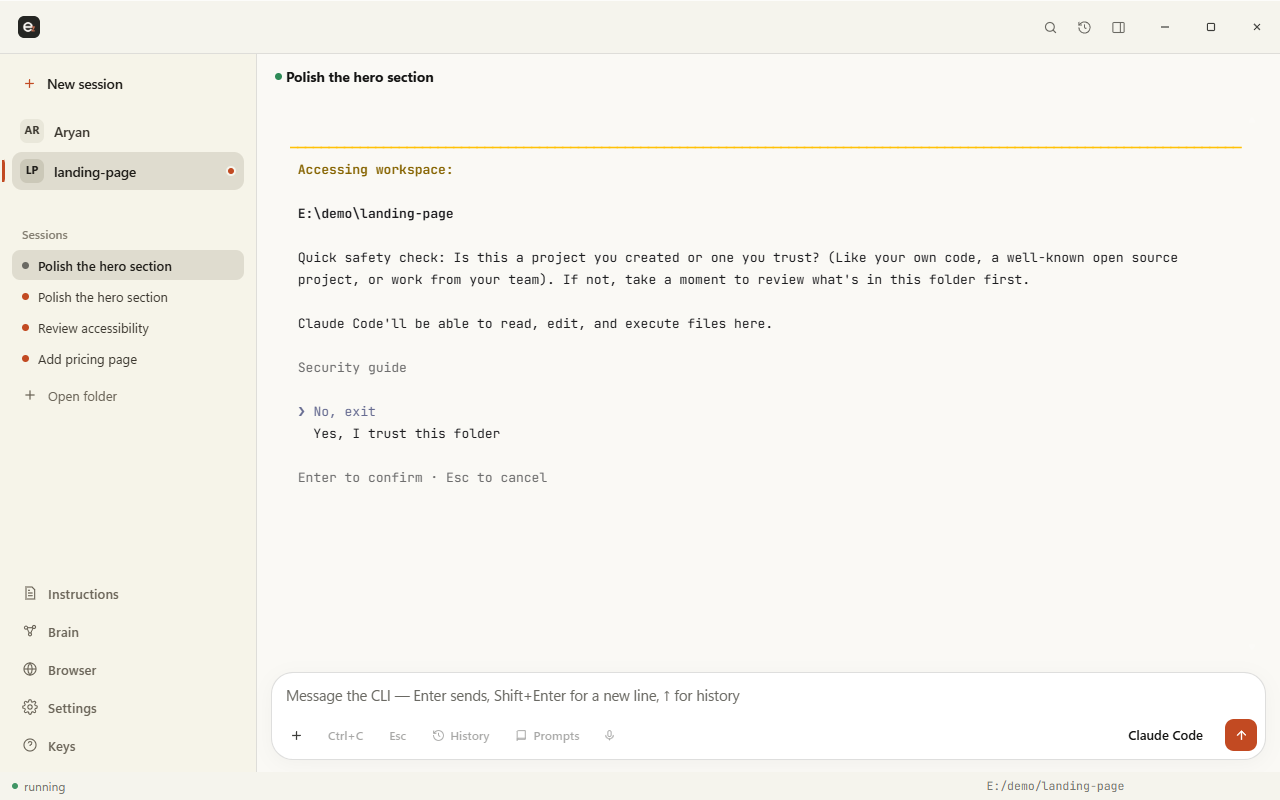
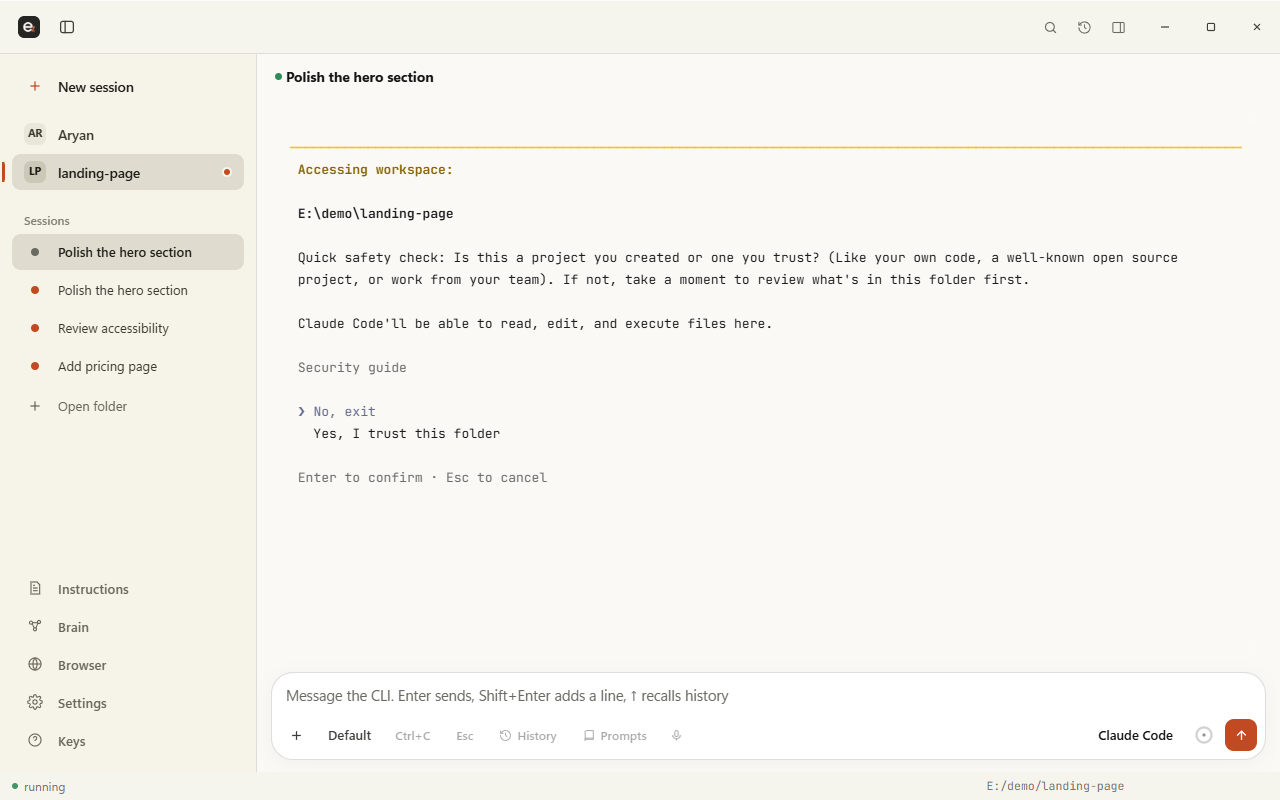
v4.5.0: README refresh with highlights and new screenshots, explorer and footer layout fixes

diff --git a/public/features/v4.css b/public/features/v4.css
@@ -293,3 +293,24 @@ html[data-layout='calm'] #ptyComposer .usage-ring:hover { background: color-mix(
 
 /* a limit near its cap in the status bar: a darker amber on light windows so it stays readable */
 :root[data-theme='light'] .live-usage-item.hot { color: color-mix(in srgb, var(--warn) 72%, #000); }
+
+/* narrow message boxes (a small window, or the explorer docked beside the session): the footer
+ * wraps onto a second line instead of running past the box. Container queries, because the box
+ * is narrow when the explorer takes space even in a wide window. */
+html[data-layout='calm'] #ptyComposer, html[data-layout='calm'] #homeComposer { container: composer / inline-size; }
+@container composer (max-width: 660px) {
+  .composer-row, .composer-row.runconfig { flex-wrap: wrap !important; row-gap: 4px; }
+  #homeAgent { margin-left: 0 !important; }
+  .composer-tools { margin-left: auto !important; }
+  #ptyComposer .composer-meta { margin-left: auto; }
+}
+
+/* the session header gives up its chips, then its secondary buttons, as the session column narrows
+ * (a small window, or the explorer docked beside it) so the actions never run under the explorer */
+html[data-layout='calm'] .session-head { container: shead / inline-size; }
+@container shead (max-width: 760px) {
+  .session-head > .head-chip, .session-head > .head-branch, .session-head > .head-agent { display: none !important; }
+}
+@container shead (max-width: 520px) {
+  .session-head #actExport, .session-head .open-in-primary { display: none !important; }
+}

diff --git a/public/app.js b/public/app.js
@@ -2264,8 +2264,24 @@ function setExplorerOpen(open, { quiet = false } = {}) {
   requestAnimationFrame(fitActive);
 }
 
+/** The explorer never takes more than the window can spare: the session keeps at least 320px,
+ *  so the explorer cannot cover the composer when the window is narrow or the sidebar is open. */
 function applyExplorerWidth() {
-  document.querySelector('.main').style.setProperty('--explorer-width', `${prefs.explorerWidth}px`);
+  const main = document.querySelector('.main');
+  const room = main.clientWidth - 320;
+  const width = Math.max(260, Math.min(prefs.explorerWidth, room));
+  main.style.setProperty('--explorer-width', `${Math.round(width)}px`);
+}
+window.addEventListener('resize', () => applyExplorerWidth());
+{
+  let last = 0;
+  new ResizeObserver(() => {
+    const w = document.querySelector('.main').clientWidth;
+    if (Math.abs(w - last) > 1) {
+      last = w;
+      applyExplorerWidth();
+    }
+  }).observe(document.querySelector('.main'));
 }
 
 function explorerRoot() {

diff --git a/README.md b/README.md
@@ -10,9 +10,10 @@
 
 ezCLI is not a harness. Each session spawns the real CLI in a real pseudo-terminal, so
 the agent's own text UI renders unchanged. Nothing is proxied, re-prompted, or rewritten.
-The window adds the parts a bare terminal lacks: tabs, an agent switcher, a file and diff
-browser with git actions, model, effort and mode flags you pick before launch, images and
-videos in the chat, and a compare mode that runs one prompt on several agents at once.
+The window adds the parts a bare terminal lacks: a sidebar of your projects and sessions, an
+agent switcher, a file and diff browser with git actions, model, effort and mode you pick
+before launch, images and videos in the chat, usage meters, and a compare mode that runs one
+prompt on several agents at once.
 
 ![The calm home screen: one message box, your sessions in the sidebar](docs/screenshot-launcher.png)
 
@@ -27,6 +28,40 @@ videos in the chat, and a compare mode that runs one prompt on several agents at
 ![Compare mode: one prompt sent to three agents](docs/screenshot-compare.png)
 
 ![Settings, with a section list on the left](docs/screenshot-settings.png)
+
+## Highlights
+
+**A window that feels like a desktop chat app**
+
+- **Sand and Sand Dark.** A flat, warm window modelled on the Claude desktop app: a tinted
+  sidebar, one continuous content area, a serif greeting with the ezCLI mark, and a white
+  message box. Seven other themes are one click away in Settings.
+- **A sidebar that does the switching.** New session, your projects, the open project's
+  sessions (with a status dot, or three moving dots while an agent works), earlier saved
+  sessions with stars, then Instructions, Brain, Browser, Settings and Keys. Hide it with
+  Ctrl+Alt+S, double-click a session to rename it, hover for a preview of its latest output,
+  and move through it with the arrow keys.
+- **The same message box for every agent.** The mode on the left; the model and effort on the
+  right, then the usage ring and send. Click the mode or the model to change it.
+- **Usage meters.** The ring shows how full the context window is. Click it for the context
+  window and **Plan usage limits** as thin bars with reset times, read from each CLI's own
+  files with no network request. CLIs that report nothing show a marked estimate.
+- **A transparent terminal.** The terminal sits directly on the window, in dark ink on a
+  light theme and light ink on a dark one. Dark glass and Solid are in Settings, with the
+  JetBrains Mono font, line spacing and cursor shape.
+- **Settings with a section list**, an editor for the project's `CLAUDE.md`, `AGENTS.md` or
+  `GEMINI.md`, and menus, dialogs and toasts in one consistent style.
+
+**What is underneath**
+
+- Claude Code, Codex, OpenCode, DeepSeek, Gemini CLI, Antigravity, Freebuff and Ollama, each
+  as its own CLI in its own terminal, in any folder.
+- Compare mode, team chat, a file and diff explorer, session search and resume, slash
+  commands with suggestions, clickable file paths in the output, find in output, and a
+  second-brain map of your projects that opens in Obsidian.
+- Everything stays on your PC. ezCLI never handles an account or an API key.
+
+Shortcuts are listed under [Keyboard](#keyboard).
 
 ## Install
 
@@ -119,7 +154,9 @@ ezCLI does not install Ollama, run `ollama signin`, download a model, or handle
 an Ollama API key. It uses the signed-in local CLI only after you choose a live
 catalog entry.
 
-## Current features
+## Changelog
+
+Every release, newest first.
 
 ### New in 2.1
 
@@ -136,6 +173,17 @@ catalog entry.
   nothing, and every PC shows the same list.
 - **Safer sending.** One Enter in the composer submits one message. ezCLI never types
   into a CLI's update, trust or sign-in question.
+
+### New in 4.5.0
+
+- **README refresh.** A Highlights section near the top describes the new look and features,
+  with the new banner and logo and fresh screenshots of every main screen.
+- **Fix: the explorer covered the message box in a narrower window.** The explorer now never
+  takes more than the window can spare, so the session beside it keeps at least 320px.
+- **Fix: the message box footer overflowed in a small window or with the explorer open.** It
+  wraps onto a second line when the box is narrow.
+- **Fix: the session header's buttons ran under the explorer.** The header now drops its chips,
+  then Export and Open, as the session column narrows.
 
 ### New in 4.4.0
 
@@ -740,7 +788,10 @@ The window claims only `Ctrl+Alt` combinations, so the agent's own terminal shor
 | --- | --- |
 | `Ctrl+Alt+N` | New session |
 | `Ctrl+Alt+W` | Close session |
-| `Ctrl+Alt+B` | Show or hide the sidebar |
+| `Ctrl+Alt+S` | Show or hide the sidebar |
+| `Ctrl+Alt+B` | Show or hide the file explorer |
+| `Ctrl+Shift+F` | Find in the terminal output |
+| `Ctrl` + mouse wheel | Terminal text size |
 | `Ctrl+Alt+K` | Clear the terminal |
 | `Ctrl+Alt+1` … `9` | Jump to a session |
 | `Enter` | Send the composer |
